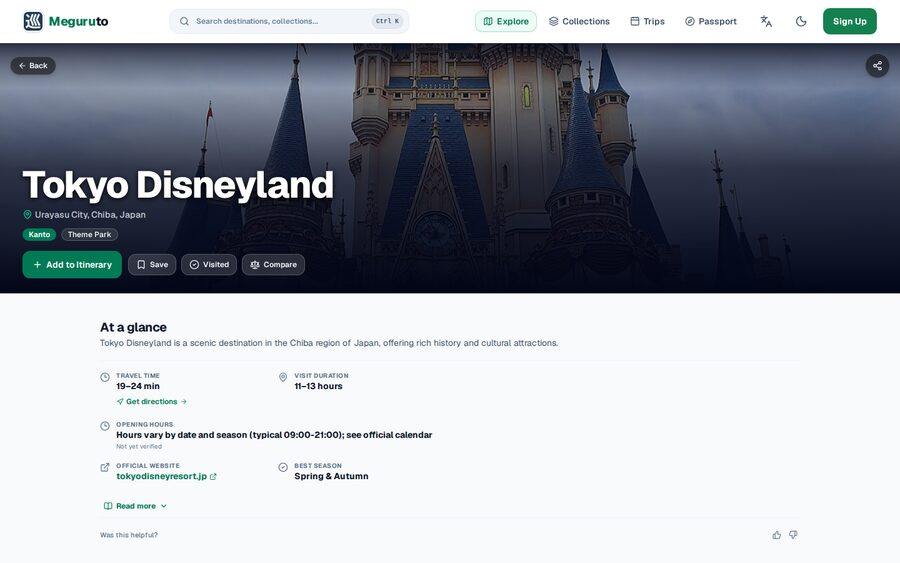
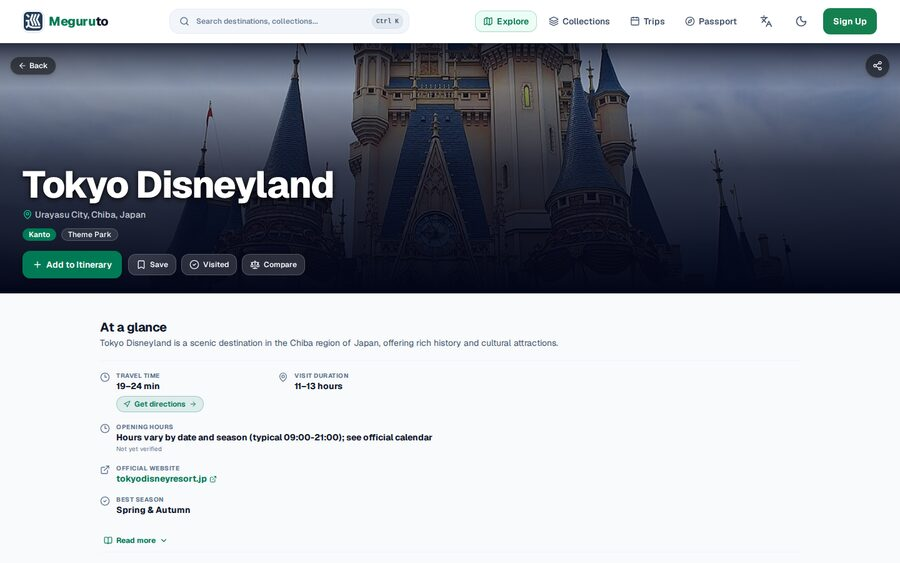
fix(ui): directions pill + full-width website row in at-a-glance

Changed region(s): [[0.0933, 0.6945, 0.4978, 0.9663], [0.3111, 0.8153, 0.4044, 0.8757], [0.8711, 0.9361, 0.9022, 0.9663]]

diff --git a/src/features/destinations/components/DestinationAtAGlance.tsx b/src/features/destinations/components/DestinationAtAGlance.tsx
@@ -210,7 +210,7 @@ export function DestinationAtAGlance({
             href,
             directions,
           }) => {
-            const wide = isWideFact(value, href);
+            const wide = isWideFact(value, href) || Boolean(href);
             return (
               <div
                 key={label}
@@ -250,12 +250,12 @@ export function DestinationAtAGlance({
                       </dd>
                     )}
                     {directions && (
-                      <dd className="mt-1">
+                      <dd className="mt-1.5">
                         <a
                           href={directions.href}
                           target="_blank"
                           rel="noopener noreferrer"
-                          className="inline-flex items-center gap-1 text-xs font-semibold text-emerald-700 hover:text-emerald-800 dark:text-emerald-300 dark:hover:text-emerald-200"
+                          className="inline-flex items-center gap-1.5 rounded-full border border-emerald-700/30 bg-emerald-700/10 px-2.5 py-1 text-xs font-semibold text-emerald-700 transition-colors hover:bg-emerald-700/20 dark:border-emerald-300/20 dark:bg-emerald-300/10 dark:text-emerald-300 dark:hover:bg-emerald-300/20"
                         >
                           <Navigation className="size-3 shrink-0" />
                           <span>{directions.label}</span>

diff --git a/src/features/destinations/components/__tests__/DestinationAtAGlance.test.tsx b/src/features/destinations/components/__tests__/DestinationAtAGlance.test.tsx
@@ -253,7 +253,7 @@ describe("DestinationAtAGlance", () => {
     ).not.toBeNull();
   });
 
-  it("keeps the official website as a single compact link fact", () => {
+  it("gives the official website a full-width row so URLs never wrap mid-domain", () => {
     act(() => {
       root.render(
         <DestinationAtAGlance
@@ -269,7 +269,8 @@ describe("DestinationAtAGlance", () => {
     expect(facts.length).toBe(2);
     const link = host.querySelector('a[href="https://www.example.com/visit"]');
     expect(link).not.toBeNull();
-    expect(facts[1]?.getAttribute("data-at-a-glance-fact")).toBe("compact");
+    expect(facts[1]?.getAttribute("data-at-a-glance-fact")).toBe("wide");
+    expect(facts[1]?.className).toContain("col-span-2");
   });
 
   it("spans long website hostnames across the full row so the link stays readable", () => {
